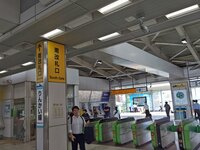
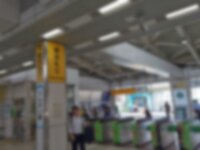
Implement privacy protection for navigation images

diff --git a/index.html b/index.html
@@ -425,46 +425,46 @@
     </div>
 
     <script>
-        // Route data - with thumbnail and full image paths for optimization
+        // Route data - with thumbnail and privacy-protected full image paths
         const routeSteps = [
             {
-                image: "img/250717132230341.JPG",
+                image: "img/privacy_protected/250717132230341.JPG",
                 thumbnail: "img/thumbnails/250717132230341.JPG",
                 title: "出発地点",
                 description: "こちらが出発地点です。大崎駅南改札口からスタートします。ここから道順を進めていきましょう。"
             },
             {
-                image: "img/250717132246343.JPG",
+                image: "img/privacy_protected/250717132246343.JPG",
                 thumbnail: "img/thumbnails/250717132246343.JPG",
                 title: "第1チェックポイント",
                 description: "最初の曲がり角です。新西口方面に進んでください。この地点を過ぎると、次のポイントへ向かいます。"
             },
             {
-                image: "img/250717132321016.JPG",
+                image: "img/privacy_protected/250717132321016.JPG",
                 thumbnail: "img/thumbnails/250717132321016.JPG",
                 title: "第2チェックポイント", 
                 description: "正面にThinkPark Towerが見えます。 このビルの前を左に曲がります。"
             },
             {
-                image: "img/250717132440700.JPG",
+                image: "img/privacy_protected/250717132440700.JPG",
                 thumbnail: "img/thumbnails/250717132440700.JPG",
                 title: "中間地点",
                 description: "正面にSonyビルが見えます。このビルの手前を右に曲がります。"
             },
             {
-                image: "img/250717132457273.JPG",
+                image: "img/privacy_protected/250717132457273.JPG",
                 thumbnail: "img/thumbnails/250717132457273.JPG",
                 title: "第3チェックポイント",
                 description: "もうすぐ目的地が近づいています。この景色が見えたら正しいルートを進んでいます。角を左に曲がってください"
             },
             {
-                image: "img/250717132546917.JPG",
+                image: "img/privacy_protected/250717132546917.JPG",
                 thumbnail: "img/thumbnails/250717132546917.JPG",
                 title: "最終チェックポイント",
                 description: "最後のチェックポイントです。目的地はもう間近です。右に曲がってください"
             },
             {
-                image: "img/250717132621391.JPG",
+                image: "img/privacy_protected/250717132621391.JPG",
                 thumbnail: "img/thumbnails/250717132621391.JPG",
                 title: "目的地到着",
                 description: "お疲れ様でした！目的地に到着しました。この景色で到着を確認してください。"

diff --git a/README.md b/README.md
@@ -1,2 +1,14 @@
 # futureonemap
 FutureOne本社への道のり
+
+## プライバシー保護機能
+このナビゲーションアプリは、個人が特定できないようプライバシー保護が適用されています：
+- すべての画像にぼかし処理を適用
+- 顔や個人を識別する情報を難読化
+- ナビゲーションに必要な看板や建物は明確に表示
+
+## 画像の再生成
+プライバシー保護された画像を再生成するには：
+```bash
+./generate_thumbnails.sh
+```
